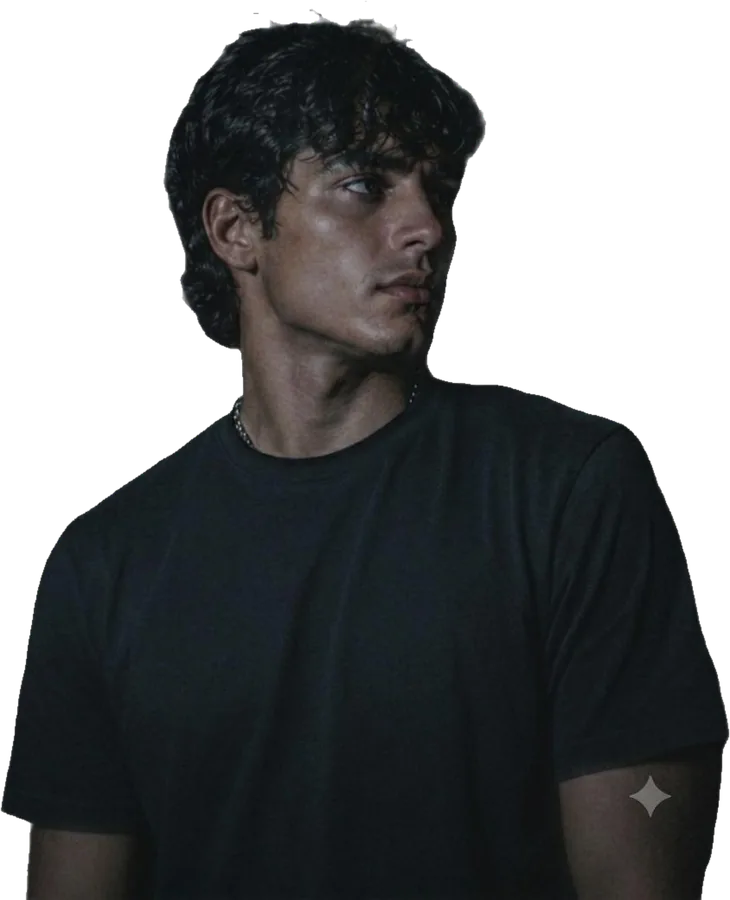
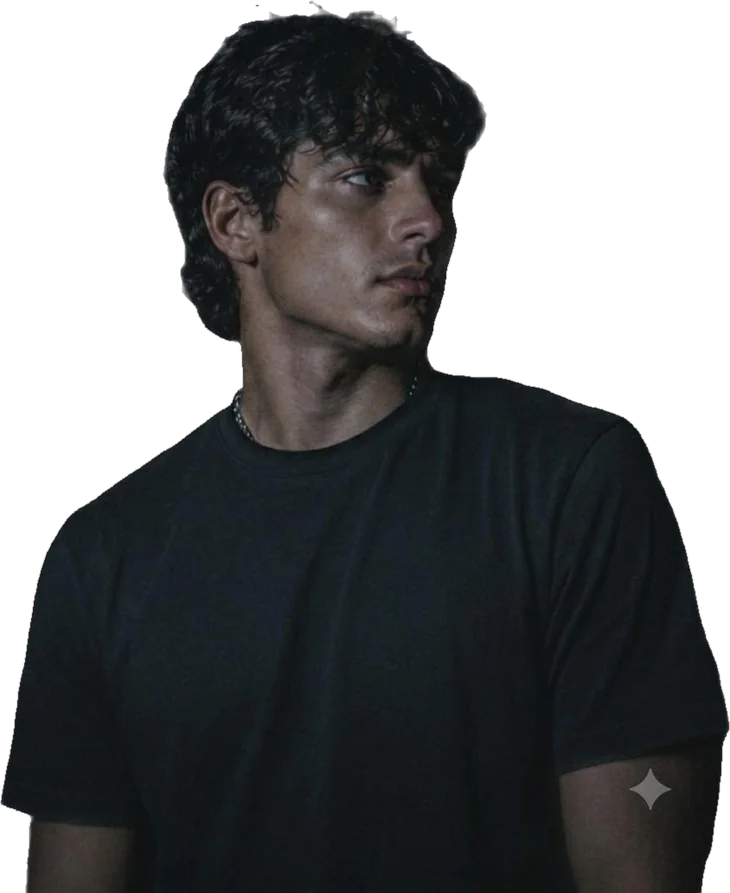
Deploy: glow removed from the cut-out
Built from ardiio deb0aa6. White spill from the JPEG flatten is now solved
out of the edge pixels, and mix-blend-mode: screen is scoped to the right
figure, which is the opaque photo that needs it.

diff --git a/assets/index-C7P2OLvt.css b/assets/index-C7P2OLvt.css
@@ -1,0 +1,1 @@
+@import "https://fonts.googleapis.com/css2?family=Archivo:wght@400..800&family=Bebas+Neue&family=Chakra+Petch:wght@500;600;700&display=swap";:root{--font-display:"Chakra Petch", "Archivo", sans-serif;--font-body:"Archivo", "Helvetica Neue", sans-serif;--font-numeral:"Bebas Neue", Impact, sans-serif;--eyebrow-size:12px;--eyebrow-track:1.5px;--eyebrow-gap:14px;--bg:#0f1420;--bg-tint:#151b2a;--card:#171e2f;--ink:#e7edf7;--dim:#a7b0c4;--faint:#6c7690;--border:#253048;--border2:#384866;--blue-100:#16233a;--blue-200:#1f3352;--blue-300:#4e93ee;--blue-500:#3b82e8;--blue-700:#7db0f2;--accent-ink:#0a1524;--nav-bg:#0f1420e0;--phone-bg:#1b2438;--fig-fill:#1d2a44;--cta-glow:#4e93ee33;--shimmer:#ffffff14;--shadow-soft:0 2px 6px #00000059, 0 14px 34px #00000073;--shadow-tiny:0 1px 3px #0006}*{box-sizing:border-box;margin:0;padding:0}button,input,select,textarea{font-family:inherit}html{scroll-behavior:smooth;-webkit-text-size-adjust:100%}::selection{background:var(--blue-300);color:var(--accent-ink)}body{background:var(--bg);color:var(--ink);font-family:var(--font-body);font-size:16px;line-height:1.5;transition:background .25s,color .25s;overflow-x:hidden}.wrap{max-width:1120px;margin:0 auto;padding:0 28px}a:focus-visible,button:focus-visible,input:focus-visible{outline:2px solid var(--blue-700);outline-offset:3px}nav{z-index:50;background:var(--nav-bg);-webkit-backdrop-filter:blur(12px);backdrop-filter:blur(12px);border-bottom:1px solid var(--border);position:sticky;top:0}.navrow{justify-content:space-between;align-items:center;gap:14px;height:68px;display:flex}.logo{font-family:var(--font-display);letter-spacing:1.2px;color:var(--ink);font-size:25px;font-weight:700;text-decoration:none}.logo span{color:var(--blue-500)}.logo.small{font-size:19px}.navlinks{align-items:center;gap:26px;margin-left:auto;display:flex}.navlinks a.plain{color:var(--dim);padding:10px 0;font-size:14.5px;font-weight:600;text-decoration:none}.navlinks a.plain:hover{color:var(--ink)}.btn{background:var(--blue-300);min-height:48px;color:var(--accent-ink);border:2px solid var(--blue-300);font-family:var(--font-body);letter-spacing:.1px;cursor:pointer;box-shadow:var(--shadow-tiny);border-radius:999px;justify-content:center;align-items:center;gap:8px;padding:0 26px;font-size:15px;font-weight:700;text-decoration:none;transition:transform .18s,background .18s,border-color .18s;display:inline-flex}.btn:hover{background:var(--blue-500);border-color:var(--blue-500);transform:translateY(-1px)}.btn.ghost{color:var(--blue-700);box-shadow:none;background:0 0}.btn.ghost:hover{background:var(--blue-100);color:var(--blue-700)}.btn.navjoin{min-height:52px;padding:0 34px;font-size:16px}.navcta,.navtoggle,.mobilemenu{display:none}.navtoggle{cursor:pointer;width:46px;height:46px;color:var(--ink);background:0 0;border:0;justify-content:center;align-items:center;margin-right:-10px}.navtoggle .bars{width:22px;height:16px;display:block;position:relative}.navtoggle .bars i{background:currentColor;border-radius:2px;width:100%;height:2px;transition:transform .24s,opacity .18s,top .24s;position:absolute;left:0}.navtoggle .bars i:first-child{top:0}.navtoggle .bars i:nth-child(2){top:7px}.navtoggle .bars i:nth-child(3){top:14px}.navtoggle.open .bars i:first-child{top:7px;transform:rotate(45deg)}.navtoggle.open .bars i:nth-child(2){opacity:0}.navtoggle.open .bars i:nth-child(3){top:7px;transform:rotate(-45deg)}.mobilemenu{border-top:1px solid var(--border);background:var(--bg);flex-direction:column;max-height:0;transition:max-height .28s;overflow:hidden}.mobilemenu.open{max-height:260px}.mobilemenu a{min-height:52px;color:var(--ink);font-family:var(--font-body);border-bottom:1px solid var(--border);align-items:center;padding:0 20px;font-size:15px;font-weight:700;text-decoration:none;display:flex}.mobilemenu a:last-child{border-bottom:none}.mobilemenu a:active{background:var(--blue-100)}.hero{grid-template-columns:1.25fr .75fr;align-items:center;gap:24px;padding:84px 0 30px;display:grid;position:relative}.eyebrow,.kicker{color:var(--blue-700);font-family:var(--font-body);font-weight:600;font-size:var(--eyebrow-size);text-transform:uppercase;letter-spacing:var(--eyebrow-track);margin:0 calc(var(--eyebrow-track) * -1) var(--eyebrow-gap) 0;line-height:1;display:block}.hero h1{font-family:var(--font-display);letter-spacing:.5px;color:var(--ink);font-size:clamp(42px,6.2vw,80px);font-weight:700;line-height:1.06}.hero-prox{font-family:var(--font-display)}.sub{color:var(--dim);max-width:520px;margin-top:26px;font-size:19px}.sub b{color:var(--ink)}.signup{flex-wrap:wrap;gap:10px;max-width:480px;margin-top:30px;display:flex}.signup .field{flex:240px;display:block}.signup input{background:var(--card);border:1.5px solid var(--border2);width:100%;min-height:48px;color:var(--ink);font-family:var(--font-body);box-shadow:var(--shadow-tiny);border-radius:999px;padding:0 20px;font-size:15.5px;transition:border-color .18s}.signup input::placeholder{color:var(--faint)}.signup input:focus{border-color:var(--blue-500);outline:none}.heronote{color:var(--dim);margin-top:16px;font-size:14px}.phonewrap{justify-content:center;align-items:center;min-height:560px;display:flex;position:relative}.waves-bg{z-index:0;position:absolute;inset:-30px;-webkit-mask-image:radial-gradient(circle,#000 42%,#0000 74%);mask-image:radial-gradient(circle,#000 42%,#0000 74%)}.softwaves{position:absolute;inset:0;overflow:hidden}.softwave{width:200%;height:46%;position:absolute;left:0}.sw-0{fill:var(--blue-100);animation:46s linear infinite wavedrift;top:20%}.sw-1{fill:var(--blue-200);animation:30s linear infinite reverse wavedrift;top:37%}.sw-2{fill:var(--blue-300);opacity:.5;animation:60s linear infinite wavedrift;top:54%}@keyframes wavedrift{to{transform:translate(-50%)}}.phone{z-index:1;background:var(--phone-bg);border:3px solid var(--border2);width:288px;box-shadow:var(--shadow-soft);border-radius:40px;padding:12px 10px;transition:transform .4s;position:relative;transform:rotate(3deg)}.phonewrap:hover .phone{transform:rotate(0)}.screen{background:var(--bg);border-radius:30px;padding:18px 14px 12px}.scr-hi{color:var(--dim);font-size:11.5px}.scr-h1{font-family:var(--font-body);letter-spacing:-.3px;margin-bottom:10px;font-size:16.5px;font-weight:800}.scr-label{color:var(--dim);text-transform:uppercase;letter-spacing:1.4px;align-items:center;gap:5px;margin:12px -1.4px 7px 0;font-size:9.5px;font-weight:600;line-height:1;display:flex}.dot{background:var(--blue-500);border-radius:50%;width:6px;height:6px;display:inline-block}.coach{background:var(--bg-tint);border:1px solid var(--border);border-radius:12px;align-items:center;gap:9px;margin-bottom:7px;padding:10px;display:flex}.ava{width:34px;height:34px;font-family:var(--font-body);color:var(--accent-ink);border-radius:50%;flex-shrink:0;justify-content:center;align-items:center;font-size:12px;font-weight:800;display:flex}.coach .info{flex:1;min-width:0}.coach .nm{align-items:center;gap:6px;font-size:12.5px;font-weight:700;display:flex}.badge{background:var(--blue-100);border:1px solid var(--blue-200);color:var(--blue-700);letter-spacing:.6px;border-radius:999px;padding:1px 6px;font-size:7.5px;font-weight:700}.coach .meta{color:var(--blue-700);font-size:10px}.coach .spec{color:var(--dim);white-space:nowrap;text-overflow:ellipsis;font-size:9.5px;overflow:hidden}.scr-btn{background:var(--blue-300);color:var(--accent-ink);font-family:var(--font-body);text-align:center;border-radius:999px;margin-top:10px;padding:12px;font-size:11px;font-weight:700}.ticker{background:var(--blue-100);border-top:1px solid var(--blue-200);border-bottom:1px solid var(--blue-200);margin-top:64px;overflow:hidden}.ticker .inner{width:max-content;padding:14px 0;animation:32s linear infinite tickerscroll;display:flex}.tickergroup{display:flex}.ticker .tickergroup span{font-family:var(--font-body);letter-spacing:.3px;color:var(--ink);white-space:nowrap;padding:0 22px;font-size:14.5px;font-weight:700}.ticker .tickergroup span.lm{color:var(--blue-500);padding:0}@keyframes tickerscroll{0%{transform:translate(0)}to{transform:translate(-50%)}}.sechead{align-items:center;gap:16px;padding:96px 0 12px;display:flex}.sechead .no{font-family:var(--font-body);background:var(--blue-100);width:42px;height:42px;color:var(--blue-700);border:1px solid var(--blue-200);border-radius:50%;flex-shrink:0;justify-content:center;align-items:center;font-size:14px;font-weight:800;display:inline-flex}.sectitle{font-family:var(--font-display);letter-spacing:.3px;color:var(--ink);margin:0;font-size:clamp(28px,4vw,42px);font-weight:700}.sechead .rule{background:var(--border2);flex:1;align-self:center;height:1px}.steps{flex-direction:column;display:flex}.step{border-bottom:1px solid var(--border);grid-template-columns:130px 1fr 1.1fr;align-items:center;gap:24px;padding:34px 0;display:grid}.step:last-child{border-bottom:none}.step .big{font-family:var(--font-numeral);letter-spacing:3px;color:var(--blue-200);font-size:96px;font-weight:400;line-height:.9}.step:nth-child(2) .big{color:var(--blue-300)}.step:nth-child(3) .big{color:var(--blue-500)}.step h3{font-family:var(--font-display);font-size:21px;font-weight:700}.step p{color:var(--dim);font-size:15.5px}.tiers{grid-template-columns:1fr 1.3fr 1fr;align-items:stretch;gap:16px;padding:28px 0 8px;display:grid}.tier{background:var(--blue-100);border:1px solid var(--blue-200);border-radius:20px;flex-direction:column;padding:30px 26px;transition:transform .18s,box-shadow .18s;display:flex;position:relative}.tier:hover{box-shadow:var(--shadow-soft);transform:translateY(-3px)}.tier.popular{border:2px solid var(--blue-500);background:var(--blue-200)}.tier .tag{color:var(--blue-700);font-family:var(--font-body);font-weight:600;font-size:var(--eyebrow-size);text-transform:uppercase;letter-spacing:var(--eyebrow-track);margin-right:calc(var(--eyebrow-track) * -1);line-height:1;position:absolute;top:30px;right:26px}.tier .price{font-family:var(--font-display);letter-spacing:.5px;color:var(--blue-700);font-size:46px;font-weight:700}.tier .price small{color:var(--dim);letter-spacing:0;font-size:15px;font-weight:700}.tier h3{font-family:var(--font-display);letter-spacing:0;color:var(--ink);margin-top:4px;font-size:18px;font-weight:700}.tier .tierdur{color:var(--dim);font-family:var(--font-display);align-items:center;gap:7px;margin-top:10px;font-size:13px;font-weight:700;display:inline-flex}.tier .tierdur:before{content:"";background:conic-gradient(currentColor 0 90deg, transparent 90deg 360deg);border:2px solid;border-radius:50%;flex-shrink:0;width:13px;height:13px}.tier p{color:var(--dim);margin-top:10px;font-size:14.5px}.tier ul{margin-top:14px;list-style:none}.tier{cursor:pointer}.tier.open{border-color:var(--blue-500);box-shadow:var(--shadow-soft)}.tiermore{color:var(--blue-700);text-underline-offset:3px;margin-top:auto;padding-top:16px;font-size:13.5px;font-weight:700;text-decoration:underline}.tierdetail{background:var(--blue-100);border:1px solid var(--blue-200);border-radius:20px;margin-top:18px;padding:28px 30px;animation:.3s both appfade}.tierdetail h3{font-family:var(--font-display);font-size:20px;font-weight:700}.td-lede{color:var(--dim);max-width:760px;margin-top:10px;font-size:15.5px}.td-list{grid-template-columns:1fr 1fr;gap:4px 24px;margin-top:14px;list-style:none;display:grid}.td-list li{color:var(--ink);padding:5px 0 5px 26px;font-size:14px;position:relative}.td-list li:before{content:"";border-left:2.5px solid var(--blue-500);border-bottom:2.5px solid var(--blue-500);width:14px;height:8px;position:absolute;top:9px;left:0;transform:rotate(-45deg)scale(.85)}.td-note{border-top:1px solid var(--blue-200);color:var(--dim);max-width:760px;margin-top:16px;padding-top:14px;font-size:13.5px}.tier li{color:var(--ink);padding:5px 0 5px 26px;font-size:14px;position:relative}.tier li:before{content:"";border-left:2.5px solid var(--blue-500);border-bottom:2.5px solid var(--blue-500);width:14px;height:8px;position:absolute;top:9px;left:0;transform:rotate(-45deg)scale(.85)}.tier.popular li:before{border-color:var(--blue-700)}.livegrid{grid-template-columns:1fr 1fr;align-items:center;gap:40px;padding:28px 0 8px;display:grid}.livecopy h3{font-family:var(--font-display);letter-spacing:.2px;font-size:clamp(22px,2.6vw,30px);font-weight:700;line-height:1.14}.livecopy p{color:var(--dim);margin-top:14px;font-size:15.5px}.livecopy-note{border-left:3px solid var(--blue-300);padding-left:14px}.livecopy .btn{margin-top:22px}.ctaband{background:linear-gradient(180deg, var(--bg) 0%, #05070b 18%, #000 46%);margin-top:100px;padding:96px 0 92px;position:relative}.ctacontent{z-index:2;padding-top:0;padding-bottom:0;position:relative}.ctafigures{pointer-events:none;position:absolute;inset:0;overflow:hidden}.fig{height:92%;position:absolute;bottom:-2%;-webkit-mask-image:linear-gradient(#000 70%,#0000 98%);mask-image:linear-gradient(#000 70%,#0000 98%)}.fig-left{left:max(8px,3%)}.fig-right{right:max(8px,3%)}.fig-fill{fill:var(--fig-fill)}.fig-line{fill:none;stroke:var(--blue-300);stroke-width:2px;stroke-linecap:round}.fl-1{stroke-dasharray:26 210;animation:8s linear infinite figtravel1,2.6s ease-in-out infinite figpulse}.fl-2{stroke:var(--blue-500);stroke-width:1.5px;stroke-dasharray:10 140;animation:12s linear infinite reverse figtravel2,3.4s ease-in-out .9s infinite figpulse}@keyframes figtravel1{to{stroke-dashoffset:-708px}}@keyframes figtravel2{to{stroke-dashoffset:-750px}}@keyframes figpulse{0%,to{opacity:.3}50%{opacity:1}}.photofig{pointer-events:none;height:96%;position:absolute;bottom:0;left:-2%}.photofig-right{height:104%;bottom:-2%;left:auto;right:-7%}.photofig-right .photofig-img{mix-blend-mode:screen;filter:brightness()contrast(1.04)saturate(.95);-webkit-mask-image:none;mask-image:none}.photofig-img,.photofig-lines{width:auto;height:100%;display:block}.photofig-img{filter:brightness(.92)contrast(1.12)saturate(.9);-webkit-mask-composite:source-in;-webkit-mask-image:radial-gradient(115% 95% at 50% 52%,#000 46%,#0000 93%),linear-gradient(#000 74%,#0000 99%);mask-image:radial-gradient(115% 95% at 50% 52%,#000 46%,#0000 93%),linear-gradient(#000 74%,#0000 99%);-webkit-mask-composite:source-in;mask-composite:intersect}.photofig-lines{position:absolute;inset:0;overflow:visible}.photofig-lines .trace-1{stroke:var(--blue-300);stroke-width:1.4px;stroke-dasharray:18 150;animation:9s linear infinite tracetravel,2.8s ease-in-out infinite figpulse}.photofig-lines .trace-2{stroke:var(--blue-500);stroke-width:1px;stroke-dasharray:7 96;animation:14s linear infinite reverse tracetravel,3.6s ease-in-out .9s infinite figpulse}@keyframes tracetravel{to{stroke-dashoffset:calc(var(--tracelen,700) * -1)}}@media (prefers-reduced-motion:reduce){.photofig-lines .trace-1,.photofig-lines .trace-2{opacity:.55;animation:none}}@media (width<=1100px){.ctafigures .fig,.photofig-right{display:none}.photofig-left{width:auto;height:min(46vw,190px);left:0}.ctaband:has(.photofig){padding-bottom:210px}.photofig-img,.photofig-lines{width:auto;height:100%}.photofig-lines .trace-1{stroke-width:1px}.photofig-lines .trace-2{stroke-width:.75px}.photofig-img{-webkit-mask-composite:source-in;-webkit-mask-image:radial-gradient(120% 100% at 50% 55%,#000 44%,#0000 94%),linear-gradient(#0000 3%,#000 30% 78%,#0000 99%);mask-image:radial-gradient(120% 100% at 50% 55%,#000 44%,#0000 94%),linear-gradient(#0000 3%,#000 30% 78%,#0000 99%);-webkit-mask-composite:source-in;mask-composite:intersect}}.ctaband h2{font-family:var(--font-display);letter-spacing:.4px;color:var(--ink);font-size:clamp(32px,5vw,56px);font-weight:700;line-height:1.06}.ctaband h2 em{color:var(--blue-700);font-style:normal}footer{border-top:1px solid var(--border);color:var(--dim);z-index:2;background:var(--bg);padding:30px 0 44px;font-size:14px;position:relative}.footrow{flex-wrap:wrap;justify-content:space-between;align-items:center;gap:16px;display:flex}footer a{color:var(--blue-700);padding:8px 0;text-decoration:none}.diffband{background:var(--blue-100);border:1px solid var(--blue-200);max-width:760px;color:var(--dim);border-radius:20px;margin:72px auto 0;padding:26px 30px;font-size:clamp(18px,2.4vw,23px);line-height:1.45}.diffband em{color:var(--ink);font-style:normal;font-weight:700}.foot-ast{color:var(--faint);font-size:12px}.footnote{color:var(--faint);text-align:center;margin-top:18px;font-size:10.5px;line-height:1.5}.footnote+.finelegal{margin-top:6px}.finelegal{color:var(--faint);text-align:center;margin-top:18px;font-size:12px;line-height:1.6}.storebtns{flex-wrap:wrap;gap:12px;margin-top:20px;display:flex}.ctacontent{text-align:center}.ctaband .signup{justify-content:center;margin-left:auto;margin-right:auto}.ctaband .storebtns{justify-content:center;margin-top:28px}.ctaband .storebtn{border-radius:20px;gap:15px;min-height:68px;padding:12px 30px}.ctaband .storebtn svg{width:34px;height:34px}.ctaband .storebtn small{font-size:12.5px}.ctaband .storebtn b{font-size:21px}.storebtn{background:var(--card);border:1.5px solid var(--border2);min-height:52px;color:var(--ink);box-shadow:var(--shadow-tiny);border-radius:16px;align-items:center;gap:12px;padding:8px 18px;text-decoration:none;transition:border-color .18s,transform .18s;display:inline-flex}.storebtn:hover{border-color:var(--blue-500);transform:translateY(-1px)}.storebtn span{flex-direction:column;line-height:1.2;display:flex}.storebtn small{color:var(--dim);text-transform:uppercase;letter-spacing:.8px;font-size:10.5px}.storebtn b{font-family:var(--font-body);font-size:16px;font-weight:800}.contactpage,.authpage{min-height:60vh;padding-bottom:80px}.backlink{color:var(--dim);padding:18px 0 0;font-size:14px;font-weight:600;text-decoration:none;display:inline-block}.backlink:hover{color:var(--ink)}.contactpage .sechead{padding-top:28px}.contactgrid{grid-template-columns:1.35fr 1fr;align-items:start;gap:24px;margin-top:24px;display:grid}.contactform{background:var(--card);border:1px solid var(--border2);box-shadow:var(--shadow-soft);border-radius:20px;flex-direction:column;gap:16px;padding:28px;display:flex}.contactform label{color:var(--dim);flex-direction:column;gap:7px;font-size:13.5px;font-weight:600;display:flex}.contactform input,.contactform select,.contactform textarea{background:var(--bg-tint);border:1.5px solid var(--border2);color:var(--ink);font-family:var(--font-body);border-radius:12px;min-height:48px;padding:12px 14px;font-size:15.5px;transition:border-color .18s}.contactform textarea{resize:vertical;min-height:130px}.contactform input:focus,.contactform select:focus,.contactform textarea:focus{border-color:var(--blue-500);outline:none}.contactform .btn{align-self:flex-start}.formnote{color:var(--dim);font-size:13px}.contactside{flex-direction:column;gap:14px;display:flex}.sidecard{background:var(--blue-100);border:1px solid var(--blue-200);border-radius:20px;padding:22px}.sidecard h3{font-family:var(--font-display);margin-bottom:8px;font-size:16px;font-weight:700}.sidecard p{color:var(--dim);font-size:14px}.sidecard a{color:var(--blue-700);word-break:break-all;text-decoration:none}.perklist{list-style:none}.perklist li{color:var(--dim);padding:5px 0 5px 24px;font-size:14px;position:relative}.perklist li:before{content:"";border-left:2.5px solid var(--blue-500);border-bottom:2.5px solid var(--blue-500);width:12px;height:7px;position:absolute;top:10px;left:0;transform:rotate(-45deg)scale(.85)}.rolepick{grid-template-columns:1fr 1fr;gap:10px;display:grid}.rolebtn{background:var(--bg-tint);border:1.5px solid var(--border2);text-align:left;cursor:pointer;color:var(--ink);min-height:48px;font-family:var(--font-body);border-radius:14px;flex-direction:column;gap:3px;padding:14px;transition:border-color .15s,background .15s;display:flex}.rolebtn b{font-family:var(--font-body);font-size:15px;font-weight:800}.rolebtn small{color:var(--dim);font-size:12.5px}.rolebtn.active{border-color:var(--blue-500);background:var(--blue-100)}.signincard{background:var(--card);border:1px solid var(--border2);max-width:460px;box-shadow:var(--shadow-soft);text-align:center;border-radius:24px;flex-direction:column;align-items:center;gap:16px;margin:60px auto 0;padding:40px 34px;display:flex}.signincard h2{font-family:var(--font-display);letter-spacing:.2px;font-size:26px;font-weight:700}.signincard p{color:var(--dim);font-size:15px}.donecheck{background:var(--blue-300);border-radius:50%;justify-content:center;align-items:center;width:56px;height:56px;display:flex}.footlinks{gap:18px;display:flex}.app-in{animation:.45s both appfade}@keyframes appfade{0%{opacity:0;transform:translateY(6px)}to{opacity:1;transform:none}}.skel{background:var(--blue-100);border-radius:12px;position:relative;overflow:hidden}.skel:after{content:"";background:linear-gradient(90deg, transparent, var(--shimmer) 50%, transparent);animation:1.4s ease-in-out infinite shimmer;position:absolute;inset:0;transform:translate(-100%)}@keyframes shimmer{to{transform:translate(100%)}}.skel-page{background:var(--bg);min-height:100vh}.skel-nav{border-bottom:1px solid var(--border);justify-content:space-between;align-items:center;max-width:1120px;height:68px;margin:0 auto;padding:0 28px;display:flex}.s-logo{width:96px;height:26px}.skel-navright{align-items:center;gap:26px;display:flex}.s-navlink{width:72px;height:13px}.s-navtoggle{width:44px;height:44px;display:none}.s-btn{border-radius:999px;width:150px;height:52px}.skel-hero{grid-template-columns:1.25fr .75fr;align-items:center;gap:24px;padding-top:84px;display:grid}.skel-col{flex-direction:column;gap:16px;display:flex}.s-kicker{width:172px;height:var(--eyebrow-size);border-radius:2px}.s-title{width:92%;height:62px}.s-title.short{width:48%}.s-line{width:85%;max-width:520px;height:16px;margin-top:8px}.s-line.short{width:55%}.s-note{width:46%;height:13px;margin-top:6px}.skel-row{gap:10px;margin-top:14px;display:flex}.skel-phonecol{justify-content:center;align-items:center;min-height:560px;display:flex}.s-phone{border-radius:40px;width:288px;height:520px;transform:rotate(3deg)}.s-ticker{border-top:1px solid var(--blue-200);border-bottom:1px solid var(--blue-200);background:var(--blue-100);border-radius:0;height:49px;margin-top:64px}.s-ticker:after{animation:none}.skel-row.cards{margin-top:72px;padding-bottom:60px}.s-card{border-radius:20px;flex:1;height:150px}@media (prefers-reduced-motion:reduce){html{scroll-behavior:auto}.ticker .inner,.softwave{animation:none}.btn,.tier,.phone{transition:none}.skel:after,.app-in{animation:none}}@media (width<=880px){.wrap{padding:0 20px}.navrow{gap:8px;height:60px}.logo{align-items:center;min-height:44px;margin-right:auto;font-size:22px;display:inline-flex}.navlinks{display:none}.navcta{min-height:44px;padding:0 18px;font-size:13px;display:inline-flex}.navtoggle,.mobilemenu{display:flex}.hero{grid-template-columns:1fr;gap:8px;padding:36px 0 8px}.hero h1{letter-spacing:-1.4px;font-size:clamp(38px,11.8vw,54px);line-height:1.02}.kicker{margin-bottom:16px;font-size:12.5px}.sub{margin-top:18px;font-size:17px}.signup{margin-top:22px}.signup .btn{width:100%}.signup .field{flex:100%}.signup input{font-size:16px}.heronote{margin-top:12px}.phonewrap{min-height:0;margin-top:4px;padding:18px 0 6px}.waves-bg{inset:-4px}.phone{border-radius:34px;width:236px;padding:10px 8px;transform:rotate(2deg)}.screen{border-radius:26px;padding:14px 11px 10px}.coach{margin-bottom:6px;padding:9px}.ava{width:30px;height:30px;font-size:11px}.ticker{margin-top:40px}.ticker .tickergroup span{padding:0 14px;font-size:12.5px}.sechead{gap:12px;padding:60px 0 8px}.sechead .no{width:36px;height:36px;font-size:12.5px}.sectitle{font-size:clamp(24px,7.5vw,32px)}.step{grid-template-columns:56px 1fr;gap:14px;padding:26px 0}.step .big{align-self:start;font-size:52px}.step h3{font-size:18px}.step p{grid-column:2;font-size:14.5px}.tiers{grid-template-columns:1fr;row-gap:26px}.tier{padding:26px 22px}.tier .price{font-size:38px}.tier:hover{box-shadow:none;transform:none}.tierdetail{padding:22px 18px}.td-list{grid-template-columns:1fr}.livegrid{grid-template-columns:1fr;gap:24px}.scroll-list-container{max-width:100%}.livegrid .scroll-list{max-height:none;padding:0;overflow-y:visible}.livegrid .item{margin-bottom:10px}.livecopy .btn{width:100%}.ctaband{margin-top:64px;padding:54px 0 210px}.ctaband h2{font-size:clamp(30px,9vw,44px)}footer{padding:24px 0 36px}.footrow{text-align:center;flex-direction:column;gap:8px}footer a{align-items:center;min-height:44px;display:inline-flex}.contactgrid{grid-template-columns:1fr}.contactform{padding:22px 18px}.contactform .btn{align-self:stretch}.contactform input,.contactform select,.contactform textarea{font-size:16px}.rolepick{grid-template-columns:1fr}.storebtns{justify-content:center}.storebtn{flex:220px;justify-content:center}.signincard{margin-top:32px;padding:30px 22px}.footlinks{justify-content:center}.skel-nav{height:60px;padding:0 20px}.s-logo{width:84px;height:24px}.skel-navright{gap:10px}.s-navlink{display:none}.s-btn{width:104px;height:44px}.s-navtoggle{display:block}.skel-hero{grid-template-columns:1fr;gap:8px;padding-top:36px}.skel-col{gap:12px}.s-kicker{width:140px;height:var(--eyebrow-size)}.s-title{width:96%;height:44px}.s-title.short{width:52%}.s-line{height:14px}.skel-phonecol{min-height:0;padding:18px 0 6px}.s-phone{border-radius:34px;width:236px;height:420px;transform:rotate(2deg)}.s-ticker{height:46px;margin-top:40px}.skel-row.cards{flex-direction:column;margin-top:56px}.s-card{flex:none;height:120px}}.variable-proximity{font-family:inherit}.sr-only{clip:rect(0, 0, 0, 0);white-space:nowrap;border:0;width:1px;height:1px;margin:-1px;padding:0;position:absolute;overflow:hidden}.scroll-list-container{width:100%;max-width:500px;position:relative}.scroll-list{max-height:400px;padding:16px;overflow-y:auto}.scroll-list::-webkit-scrollbar{width:8px}.scroll-list::-webkit-scrollbar-track{background:var(--bg)}.scroll-list::-webkit-scrollbar-thumb{background:var(--border2);border-radius:4px}.no-scrollbar::-webkit-scrollbar{display:none}.no-scrollbar{-ms-overflow-style:none;scrollbar-width:none}.item{background-color:var(--card);border:1px solid var(--border);border-left:4px solid var(--blue-300);box-shadow:var(--shadow-tiny);border-radius:14px;margin-bottom:1rem;padding:16px;transition:border-color .15s}.scroll-list>div:nth-child(3n+2) .item{border-left-color:var(--blue-500)}.scroll-list>div:nth-child(3n+3) .item{border-left-color:var(--blue-200)}.item.selected{border-color:var(--blue-500);border-left-width:4px}.item-text{color:var(--ink);margin:0;font-size:14.5px}.top-gradient{background:linear-gradient(to bottom, var(--bg), transparent);pointer-events:none;height:50px;transition:opacity .3s;position:absolute;top:0;left:0;right:0}.bottom-gradient{background:linear-gradient(to top, var(--bg), transparent);pointer-events:none;height:100px;transition:opacity .3s;position:absolute;bottom:0;left:0;right:0}

diff --git a/index.html b/index.html
@@ -48,8 +48,8 @@
         .boot-db, .boot-shadow, .boot-word { animation: none; }
       }
     </style>
-    <script type="module" crossorigin src="/assets/index-CVJqAh5W.js"></script>
-    <link rel="stylesheet" crossorigin href="/assets/index-DJ5QUTr6.css">
+    <script type="module" crossorigin src="/assets/index-CFaBDpN5.js"></script>
+    <link rel="stylesheet" crossorigin href="/assets/index-C7P2OLvt.css">
   </head>
   <body>
     <div id="root"><div id="boot">
